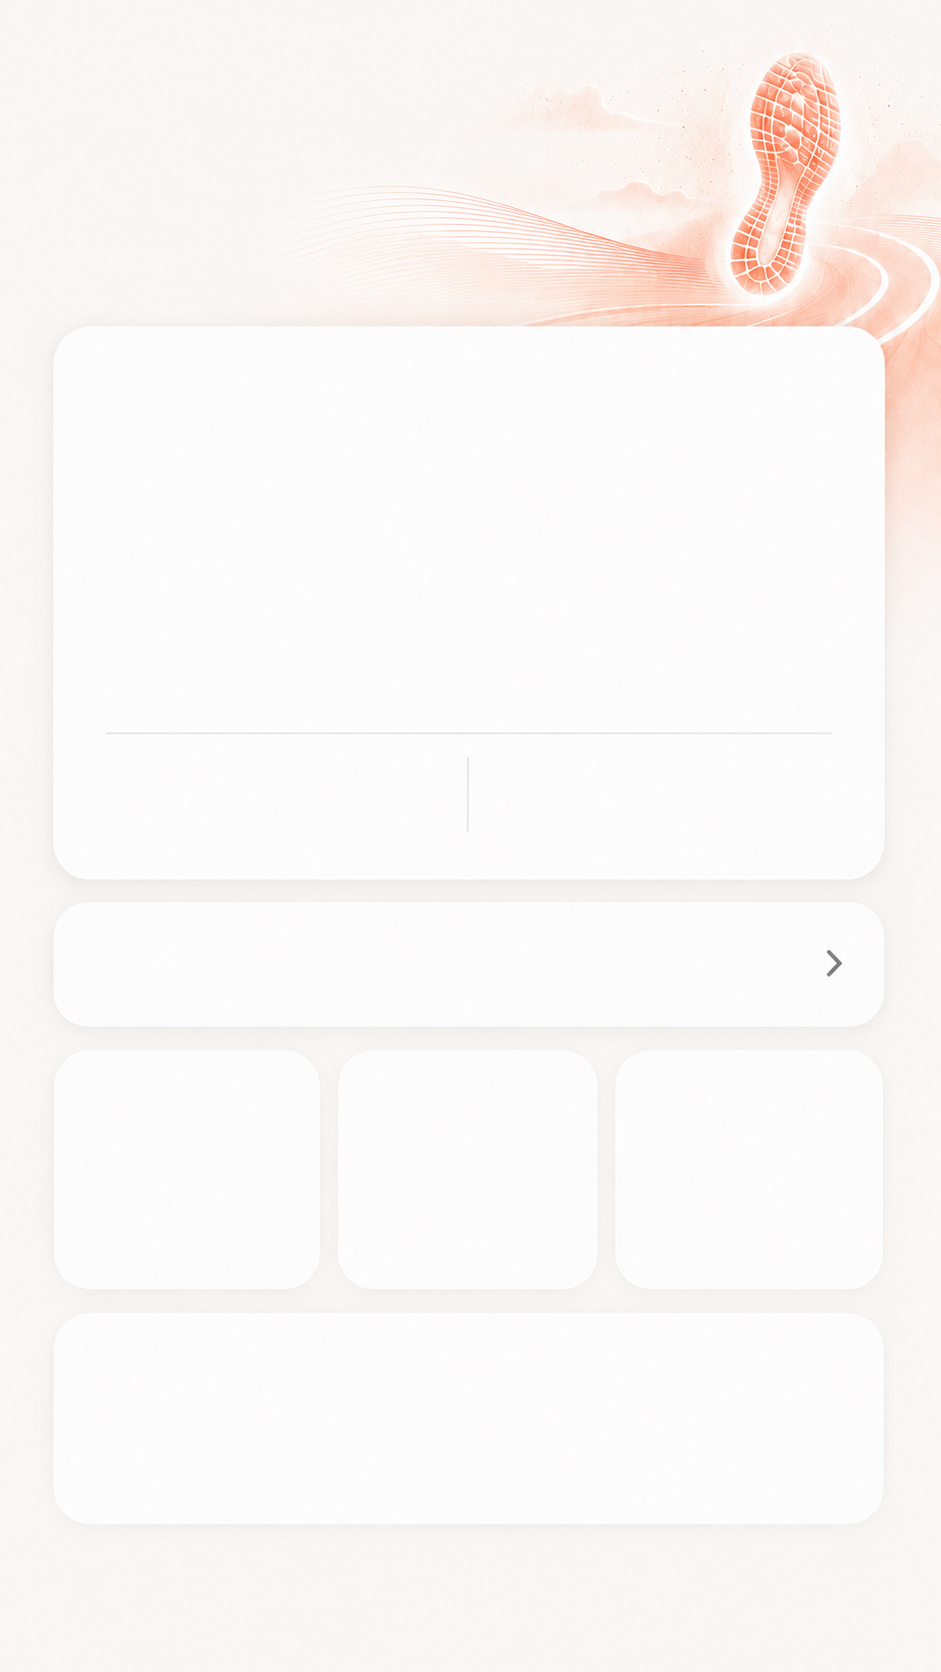
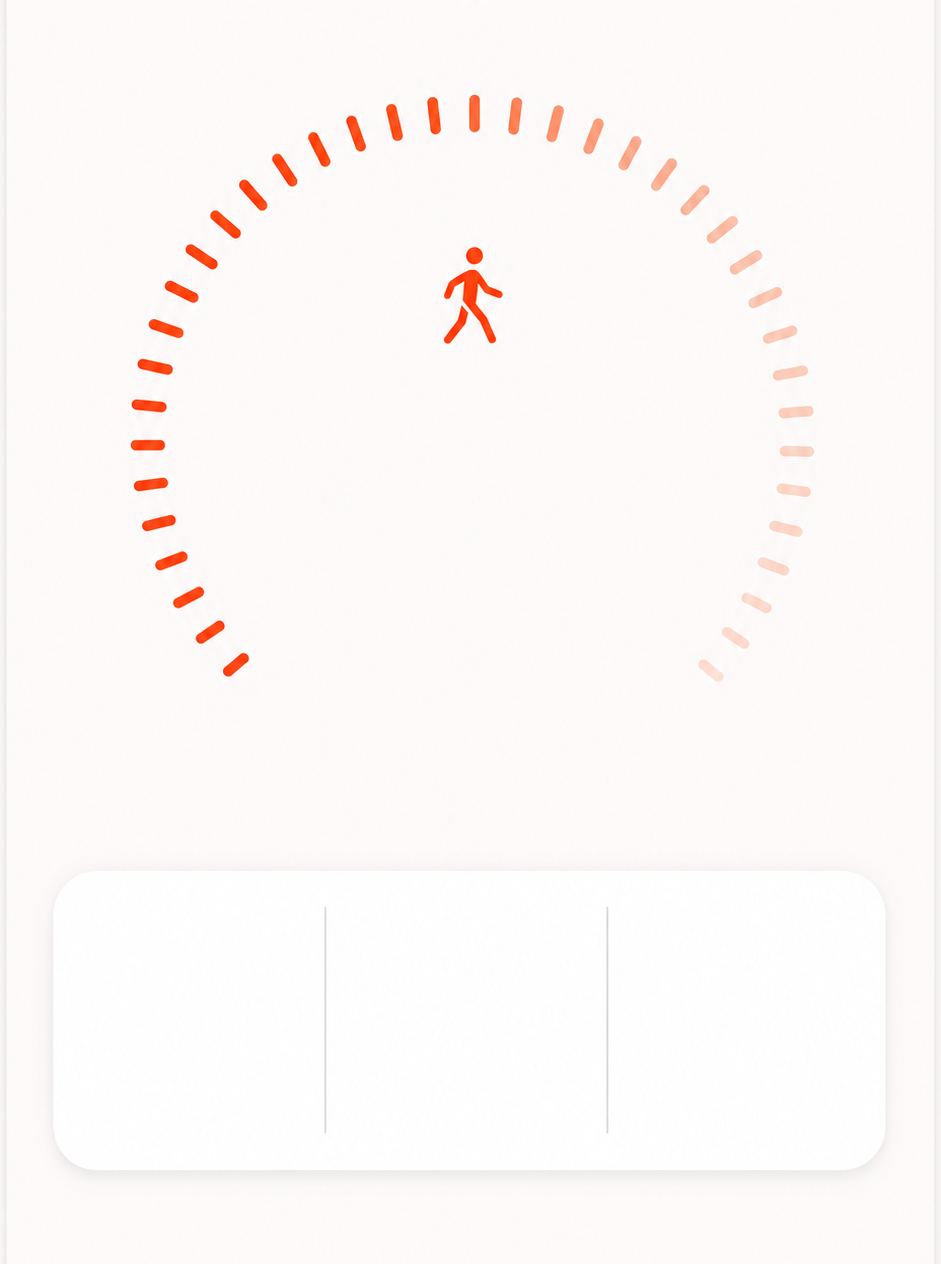
Pas: revert à la version jauge (v268) — annule la maquette cartes

diff --git a/index.html b/index.html
@@ -2721,11 +2721,11 @@ header.home-hdr .av:active,header.home-hdr .wbatt:active,header.home-hdr .hdmenu
     <button class="mt2ico" type="button" onclick="metrendInfo()"><i class="ti ti-info-small"></i></button>
   </div>
   <p class="mt2sub" id="mt2Sub">—</p>
-  <div class="mt2card mt2avgc" id="mtAvgCard">
+  <div class="mt2card mt2avgc">
     <div class="mt2avgw"><div class="mt2avgl" id="tAvgL">Moyenne 30 jours</div><div class="mt2avgv"><span id="tAvgV">—</span><small id="tAvgU">ms</small></div></div>
     <div class="mt2delta" id="tDelta"></div>
   </div>
-  <div class="mt2divh" id="mtExplHd"><i class="ti ti-layout-grid"></i><span>Explorer les jours</span></div>
+  <div class="mt2divh"><i class="ti ti-layout-grid"></i><span>Explorer les jours</span></div>
   <div class="mt2cards" id="tCards"></div>
   <div class="mt2dots" id="tDots"></div>
   <div class="mt2card mt2chartc tchartc">
@@ -3363,27 +3363,6 @@ body.stepsview header{display:none}
 .stp .recnav-d{display:inline-flex;align-items:center;gap:7px;background:#FCE9E4;border:0;border-radius:30px;padding:9px 15px;font-family:'Inter';font-size:16px;font-weight:800;color:#F0492E;cursor:pointer;white-space:nowrap}
 .stp .recnav-d i{font-size:18px}
 .stp .steps-img{position:relative;width:100%;aspect-ratio:941/1264;background:url('./steps-empty.png?v=2') top center/100% 100% no-repeat;container-type:inline-size;margin:6px 0 13px}
-.stp .stp-art{position:absolute;top:-8px;right:-12px;width:50%;max-width:215px;aspect-ratio:442/511;background:url('./steps-art.png?v=1') no-repeat top right;background-size:contain;pointer-events:none;z-index:1}
-.stp .s2img{position:relative;width:100%;aspect-ratio:941/985;background:url('./steps-cards.png?v=1') top center/100% 100% no-repeat;container-type:inline-size;margin:20px 0 14px;z-index:2}
-.stp .s2o{position:absolute;line-height:1;font-family:'Inter',sans-serif;color:#15140F;white-space:nowrap}
-.stp .s2-verdict{display:flex;align-items:center;gap:1.6cqw;font-size:4.2cqw;font-weight:800;letter-spacing:.4px}
-.stp .s2-num{font-family:'Anton';font-style:oblique 8deg;font-size:16cqw;letter-spacing:.5px}
-.stp .s2-pill{display:inline-flex;align-items:center;gap:1.4cqw;background:#EAF6EF;color:#2C8F5B;font-size:3.7cqw;font-weight:700;padding:1.9cqw 3.8cqw;border-radius:30px}
-.stp .s2-col{display:flex;align-items:center;gap:2.6cqw}
-.stp .s2ic{width:9cqw;height:9cqw;border-radius:50%;background:#FCE7E1;color:#F0492E;display:grid;place-items:center;font-size:4.4cqw;flex:none}
-.stp .s2sl{font-size:3.4cqw;color:#6E6A62;margin-bottom:1.2cqw}
-.stp .s2sv{font-family:'Anton';font-style:oblique 8deg;font-size:6.6cqw}
-.stp .s2-ban{display:flex;align-items:center;gap:3.4cqw;left:6%;right:6%;white-space:normal}
-.stp .s2-bic{width:11cqw;height:11cqw;border-radius:50%;display:grid;place-items:center;color:#fff;font-size:5.4cqw;flex:none}
-.stp .s2-bt{flex:1;min-width:0}
-.stp .s2-bt b{display:block;font-size:4.6cqw;font-weight:800;color:#15140F;margin-bottom:.8cqw}
-.stp .s2-bt span{font-size:3.7cqw;color:#6E6A62}
-.stp .s2-bch{color:#C8C2B8;font-size:5cqw;flex:none}
-.stp .s2-clab{display:flex;align-items:center;gap:1.8cqw;font-size:3.5cqw;font-weight:700}
-.stp .s2-cic{width:7cqw;height:7cqw;border-radius:50%;display:grid;place-items:center;font-size:3.6cqw;flex:none}
-.stp .s2-cv{font-family:'Anton';font-style:oblique 8deg;font-size:7.4cqw}
-.stp .s2-cv small{font-family:'Inter';font-style:normal;font-size:.32em;font-weight:700;color:#9A948A;margin-left:.18em}
-.stp .s2-cd{display:flex;align-items:center;gap:1.2cqw;font-size:3.1cqw;font-weight:600}
 .stp .ovtap{position:absolute;background:transparent;border:0;cursor:pointer;padding:0;z-index:6}
 .stp .stp-ov{position:absolute;line-height:1;font-family:'Inter',sans-serif;color:#15140F;white-space:nowrap;text-align:center}
 .stp .stp-num{font-family:'Anton';font-style:oblique 8deg;font-size:15cqw;color:#15140F}
@@ -4504,7 +4483,7 @@ function bkCardHTML(title,items,tot){tot=tot||items.reduce(function(a,b){return 
 function trendBreakdownHTML(pts,bd){var c=bd.bands.map(function(){return 0}),tot=0;pts.forEach(function(p){if(p.v==null)return;for(var i=0;i<bd.bands.length;i++){if(bd.bands[i].f(p.v)){c[i]++;tot++;break}}});
  return bkCardHTML(bd.title,bd.bands.map(function(b,i){return {c:c[i],l:b.l,col:b.c}}),tot)}
 var _tMetric='hrv',_tRange='M',_tOff=0,_tSel=null,_tDaySel=null;
-function openMetricTrend(k){_tMetric=k;_tRange=(k==='steps'?'S':'M');_tOff=0;_tSel=null;_tDaySel=null;go('metrend')}
+function openMetricTrend(k){_tMetric=k;_tRange='M';_tOff=0;_tSel=null;_tDaySel=null;go('metrend')}
 var TREND_PICK=[{g:'Sommeil',keys:['sleepperf','sleepresto','sleeprestoh','sleepeff','sleepreg','sleepdebt','timeinbed']},{g:'Cœur & souffle',keys:['hrv','rhr','fcavg','resp','vo2']},{g:'Activité & récup',keys:['recovery','effort','steps','calories','strengthtime']},{g:'Corps',keys:['weight','leanmass']}];
 function openMetricPicker(){haptic();var ex=document.getElementById('mpick');if(ex)ex.remove();var d=document.createElement('div');d.id='mpick';d.className='mpick';
  var rows=TREND_PICK.map(function(grp){var items=grp.keys.filter(function(k){return TREND[k]}).map(function(k){var M=TREND[k],on=k===_tMetric;return '<button type="button" class="mpr'+(on?' on':'')+'" onclick="pickMetric(\''+k+'\')"><span class="mpic"><i class="ti '+M.icon+'"></i></span><span class="mpl">'+M.label+'</span>'+(on?'<i class="ti ti-check mpck"></i>':'')+'</button>'}).join('');return '<div class="mpg">'+grp.g+'</div>'+items}).join('');
@@ -4554,10 +4533,7 @@ function renderMetrend(){var M=TREND[_tMetric];if(!M)return;var bar=M.chart==='b
  (function(){var cc=document.getElementById('tChart');if(!cc||cc._scrubInit)return;cc._scrubInit=1;cc.style.touchAction='none';
   cc.addEventListener('pointerdown',function(e){var MM=TREND[_tMetric];if((MM.chart==='bar'||MM.chart==='stack')&&_tRange==='6M')return;if(MM.chart!=='bar'&&MM.chart!=='stack'&&!trendAvg(trendPts(MM,_tRange,_tOff)))return;e.preventDefault();try{cc.setPointerCapture(e.pointerId)}catch(_){}tScrubFromX(e.clientX);cc._sm=function(ev){tScrubFromX(ev.clientX)};cc.addEventListener('pointermove',cc._sm)});
   var endf=function(e){if(cc._sm){cc.removeEventListener('pointermove',cc._sm);cc._sm=null}try{cc.releasePointerCapture(e.pointerId)}catch(_){}tDeselect()};
-  cc.addEventListener('pointerup',endf);cc.addEventListener('pointercancel',endf)})();
- (function(){var isS=(_tMetric==='steps');function sd(id,hide){var e=document.getElementById(id);if(e)e.style.display=hide?'none':'';}
-  sd('mt2Sub',isS);sd('mtAvgCard',isS);sd('mtExplHd',isS);sd('tCards',isS);sd('tDots',isS);sd('tExplCard',isS);
-  if(isS){['tBreak','tFoot','tGoal','tAdd'].forEach(function(id){var e=document.getElementById(id);if(e)e.style.display='none';});}})();}
+  cc.addEventListener('pointerup',endf);cc.addEventListener('pointercancel',endf)})();}
 function metrendInfo(){var e=document.getElementById('tExplCard');if(e)e.scrollIntoView({behavior:'smooth',block:'center'})}
 function metKeyDate(k){var p=k.split('-');return new Date(+p[0],+p[1]-1,+p[2])}
 function vIcon(c){return (c==='#2FAE67'||c==='#2FA86A'||c==='#5A52B5')?'ti-circle-filled':(c==='#E8674A'||c==='#C0492C')?'ti-sparkles':(c==='#3FA0E0'||c==='#2E78B5')?'ti-arrow-down':'ti-minus'}
@@ -5452,44 +5428,20 @@ function stpHM(min){min=Math.round(min);var h=Math.floor(min/60),m=min%60;return
 function stepDay(d){window._stepDay=Math.min(0,(window._stepDay||0)+d);if(typeof haptic==='function')haptic();var t=document.getElementById('mtStepsTop');if(t)t.innerHTML=stepsHeroHTML();}
 function stepCalOpen(){if(typeof haptic==='function')haptic();window._calMode='steps';slpCalOpen();}
 function stepsHeroHTML(){
- var off=window._stepDay||0,k=tk(off),i;
- function stepVal(o){return (TREND.steps&&TREND.steps.val)?Math.round(TREND.steps.val(o)):(flStepsOf(tk(o))||0)}
- var steps=stepVal(off),goal=stpGoal();
- var pct=goal?Math.round(steps/goal*100):0;
- var dist=steps*0.00075,kcal=Math.round(steps*0.0387),actMin=Math.round(steps/130);
- var ys=stepVal(off-1),dd=(steps-ys)*0.00075,dk=Math.round((steps-ys)*0.0387),dmn=Math.round((steps-ys)/130);
- var sum=0,n=0;for(i=0;i<7;i++){var v=stepVal(off-i);if(v){sum+=v;n++}}var avg7=n?Math.round(sum/n):goal;
- var reg=Math.max(0,Math.min(100,Math.round((avg7/goal)*100)));
- var vt=pct>=110?'Très bon rythme':pct>=100?'Objectif atteint':pct>=70?'Bon rythme':pct>=45?'Journée calme':'Peu actif';
- var vc=pct>=70?'#2FA86A':'#F0492E',above=steps>=avg7;
- var seed=0;for(i=0;i<k.length;i++)seed=(seed*31+k.charCodeAt(i))>>>0;
- function hm(h,m){return (h<10?'0':'')+h+':'+(m<10?'0':'')+m}
- var startT=hm(6+seed%4,(seed>>2)%60),peakT=hm(17+(seed>>4)%3,(seed>>6)%60);
- function r1(x){return (Math.round(Math.abs(x)*10)/10).toString().replace('.',',')}
- function sg(x){return x>=0?'+':'−'}function ar(x){return x>=0?'ti-arrow-up-right':'ti-arrow-down-right'}function dc(x){return x>=0?'#2FA86A':'#F0492E'}
+ var off=window._stepDay||0,k=tk(off),steps=flStepsOf(k),goal=stpGoal(),pct=Math.round(steps/goal*100);
+ var dist=steps*0.00076,kcal=Math.round(steps*0.0415),act=Math.round(steps/121),pc=pct>=100?'#2FA86A':'#F0492E';
  var h='<button class="stp-back" type="button" onclick="goBack(\'today\')" aria-label="Retour"><i class="ti ti-chevron-left"></i></button>';
- h+='<div class="stp-art"></div>';
  h+='<div class="stp-title">Pas</div>';
  h+='<div class="recnav"><button class="recnav-a" type="button" onclick="stepDay(-1)" aria-label="Jour précédent"><i class="ti ti-chevron-left"></i></button><button class="recnav-d" type="button" onclick="stepCalOpen()"><span>'+recDateFmt(off)+'</span> <i class="ti ti-calendar"></i></button><button class="recnav-a" type="button" onclick="stepDay(1)"'+(off>=0?' disabled':'')+' aria-label="Jour suivant"><i class="ti ti-chevron-right"></i></button></div>';
- var o='';
- o+='<div class="s2o s2-verdict" style="left:50%;top:8%;transform:translateX(-50%);color:'+vc+'"><i class="ti ti-walk"></i>'+vt.toUpperCase()+'</div>';
- o+='<div class="s2o s2-num" style="left:50%;top:13%;transform:translateX(-50%)">'+fmtN(steps)+'</div>';
- o+='<div class="s2o" style="left:50%;top:27%;transform:translateX(-50%);font-size:4cqw;color:#6E6A62">Pas '+(off?'ce jour-là':'aujourd\'hui')+'</div>';
- o+='<div class="s2o s2-pill" style="left:50%;top:33.2%;transform:translateX(-50%)"><i class="ti ti-target"></i>Objectif '+fmtN(goal)+' · Régularité '+reg+' %</div>';
- o+='<div class="s2o s2-col" style="left:11%;top:46%"><span class="s2ic"><i class="ti ti-sun"></i></span><div><div class="s2sl">Début actif</div><div class="s2sv">'+startT+'</div></div></div>';
- o+='<div class="s2o s2-col" style="left:56%;top:46%"><span class="s2ic"><i class="ti ti-mountain"></i></span><div><div class="s2sl">Pic</div><div class="s2sv">'+peakT+'</div></div></div>';
- var bic=above?'ti-check':'ti-walk',bbg=above?'#2FA86A':'#F0492E';
- var bt=above?'Excellente journée.':'Journée plus calme.',bs=above?'Tu es au-dessus de ta moyenne.':'Sous ta moyenne récente.';
- o+='<div class="s2o s2-ban" style="top:64.7%;transform:translateY(-50%)"><span class="s2-bic" style="background:'+bbg+'"><i class="ti '+bic+'"></i></span><span class="s2-bt"><b>'+bt+'</b><span>'+bs+'</span></span></div>';
- function card(cl,ic,icbg,iccol,lab,labcol,val,unit,dv,dunit,dval){
-  return '<div class="s2o s2-clab" style="left:'+cl+'%;top:79%;color:'+labcol+'"><span class="s2-cic" style="background:'+icbg+';color:'+iccol+'"><i class="ti '+ic+'"></i></span>'+lab+'</div>'
-   +'<div class="s2o s2-cv" style="left:'+cl+'%;top:86.5%">'+val+(unit?'<small>'+unit+'</small>':'')+'</div>'
-   +'<div class="s2o s2-cd" style="left:'+cl+'%;top:93.4%;color:'+dc(dv)+'"><i class="ti '+ar(dv)+'"></i>'+sg(dv)+dval+' '+dunit+' vs hier</div>';
- }
- o+=card(9,'ti-map-pin','#EAF6EF','#2FA86A','Distance','#2FA86A',r1(dist),'km',dd,'km',r1(dd));
- o+=card(39,'ti-clock','#FCE7E1','#F0492E','Temps actif','#F0492E',stpHM(actMin),'',dmn,'min',Math.abs(dmn));
- o+=card(69,'ti-flame','#FCE7E1','#F0492E','Calories','#F0492E',fmtN(kcal),'kcal',dk,'kcal',Math.abs(dk));
- return h+'<div class="s2img">'+o+'</div>';
+ var ov='<div class="stp-ov stp-num" style="left:50%;top:39.3%;transform:translate(-50%,-50%)">'+fmtN(steps)+'</div>';
+ ov+='<div class="stp-ov" style="left:50%;top:48.6%;transform:translateX(-50%);font-size:4cqw;font-weight:600;color:#6E6A62">pas</div>';
+ ov+='<div class="stp-ov" style="left:50%;top:54.2%;transform:translateX(-50%);font-size:3.7cqw;color:#6E6A62">Objectif '+fmtN(goal)+'</div>';
+ ov+='<div class="stp-ov" style="left:50%;top:59.8%;transform:translateX(-50%);font-size:4.3cqw;font-weight:800;color:'+pc+'">'+pct+' %</div>';
+ function stat(cx,val,unit,lbl){return '<div class="stp-ov stp-stat" style="left:'+cx+'%;top:77.9%;transform:translate(-50%,-50%)"><span class="sv">'+val+(unit?'<small>'+unit+'</small>':'')+'</span></div><div class="stp-ov" style="left:'+cx+'%;top:86.8%;transform:translate(-50%,-50%);font-size:3.2cqw;color:#6E6A62">'+lbl+'</div>';}
+ ov+=stat(20.5,(Math.round(dist*10)/10).toString().replace('.',','),'km','Distance');
+ ov+=stat(50,fmtN(kcal),'kcal','Dépensées');
+ ov+=stat(79.5,stpHM(act),'','Activité');
+ return h+'<div class="steps-img">'+ov+'</div>';
 }
 function recGrade(d){
  var sd=d.sd||((d.high-d.low)/2)||1;
@@ -6427,7 +6379,7 @@ function coachReply(q){var n=_cnorm(q),rv=recovery(),t=sensorOf(tk()),p=getProfi
  if(/(salut|bonjour|hello|coucou|hey|ca va|yo)/.test(n))return 'Salut'+(nm?' '+nm:'')+' ! Ta récup du jour est '+zone+' ('+s+'%). Demande-moi si tu peux pousser, pourquoi ton score, comment a été ta nuit, ou quel effort viser.';
  return 'Je m\'appuie sur tes données du jour (récup <b>'+s+'%</b>). Je peux te dire si tu es prêt à t\'entraîner, pourquoi ton score est comme ça, comment a été ta nuit, ou quel effort viser. Essaie une des suggestions 👇';}
 /* ---------- UPDATE / INIT ---------- */
-const APP_VERSION='flint-v269';
+const APP_VERSION='flint-v270';
 async function checkUpdate(){try{const r=await fetch('sw.js?cb='+Date.now(),{cache:'no-store'});const t=await r.text();const m=t.match(/flint-v(\d+)/);if(m){const liveN=+m[1],curN=+((APP_VERSION.match(/(\d+)/)||['0'])[0]);if(liveN>curN){const b=document.getElementById('updBanner');if(!b)return;b.style.display='block';b.textContent='⬆️ Nouvelle version (flint-v'+liveN+') — appuie pour mettre à jour'}}}catch(e){}}
 async function forceUpdate(){toast('Mise à jour…');try{if('serviceWorker'in navigator){const rs=await navigator.serviceWorker.getRegistrations();for(const r of rs)await r.unregister()}if(window.caches){const ks=await caches.keys();for(const k of ks)await caches.delete(k)}}catch(e){}location.replace(location.href.split('?')[0]+'?v='+Date.now())}
 ensureDemo();

diff --git a/sw.js b/sw.js
@@ -1,5 +1,5 @@
-const CACHE = 'flint-v269';
-const ASSETS = ['./', './index.html', './manifest.webmanifest', './logo.png', './icon-192.png', './icon-512.png', './apple-touch-icon.png', './favicon-32.png', './bg-home.png', './recup-body.png', './recup-empty.png?v=3', './steps-cards.png?v=1', './steps-art.png?v=1', './fc-art.png?v=1'];
+const CACHE = 'flint-v270';
+const ASSETS = ['./', './index.html', './manifest.webmanifest', './logo.png', './icon-192.png', './icon-512.png', './apple-touch-icon.png', './favicon-32.png', './bg-home.png', './recup-body.png', './recup-empty.png?v=3', './steps-empty.png?v=2', './fc-art.png?v=1'];
 self.addEventListener('install', e => { e.waitUntil(caches.open(CACHE).then(c => Promise.all(ASSETS.map(a => c.add(a).catch(()=>{})))).then(() => self.skipWaiting())); });
 self.addEventListener('activate', e => { e.waitUntil(caches.keys().then(ks => Promise.all(ks.filter(k => k !== CACHE).map(k => caches.delete(k)))).then(() => self.clients.claim())); });
 self.addEventListener('fetch', e => {